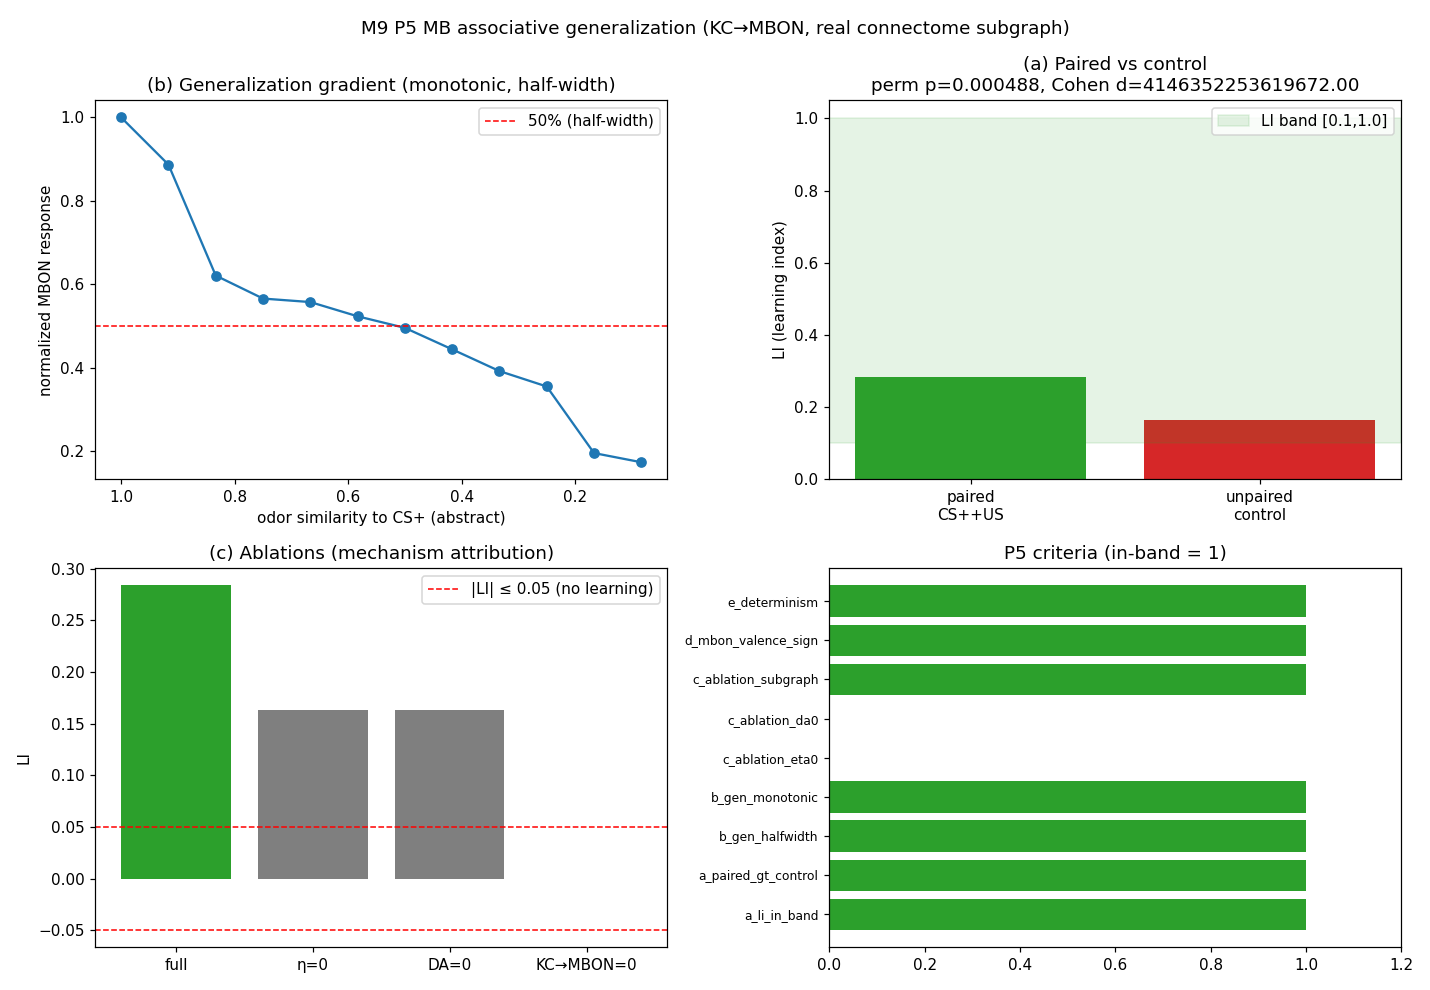
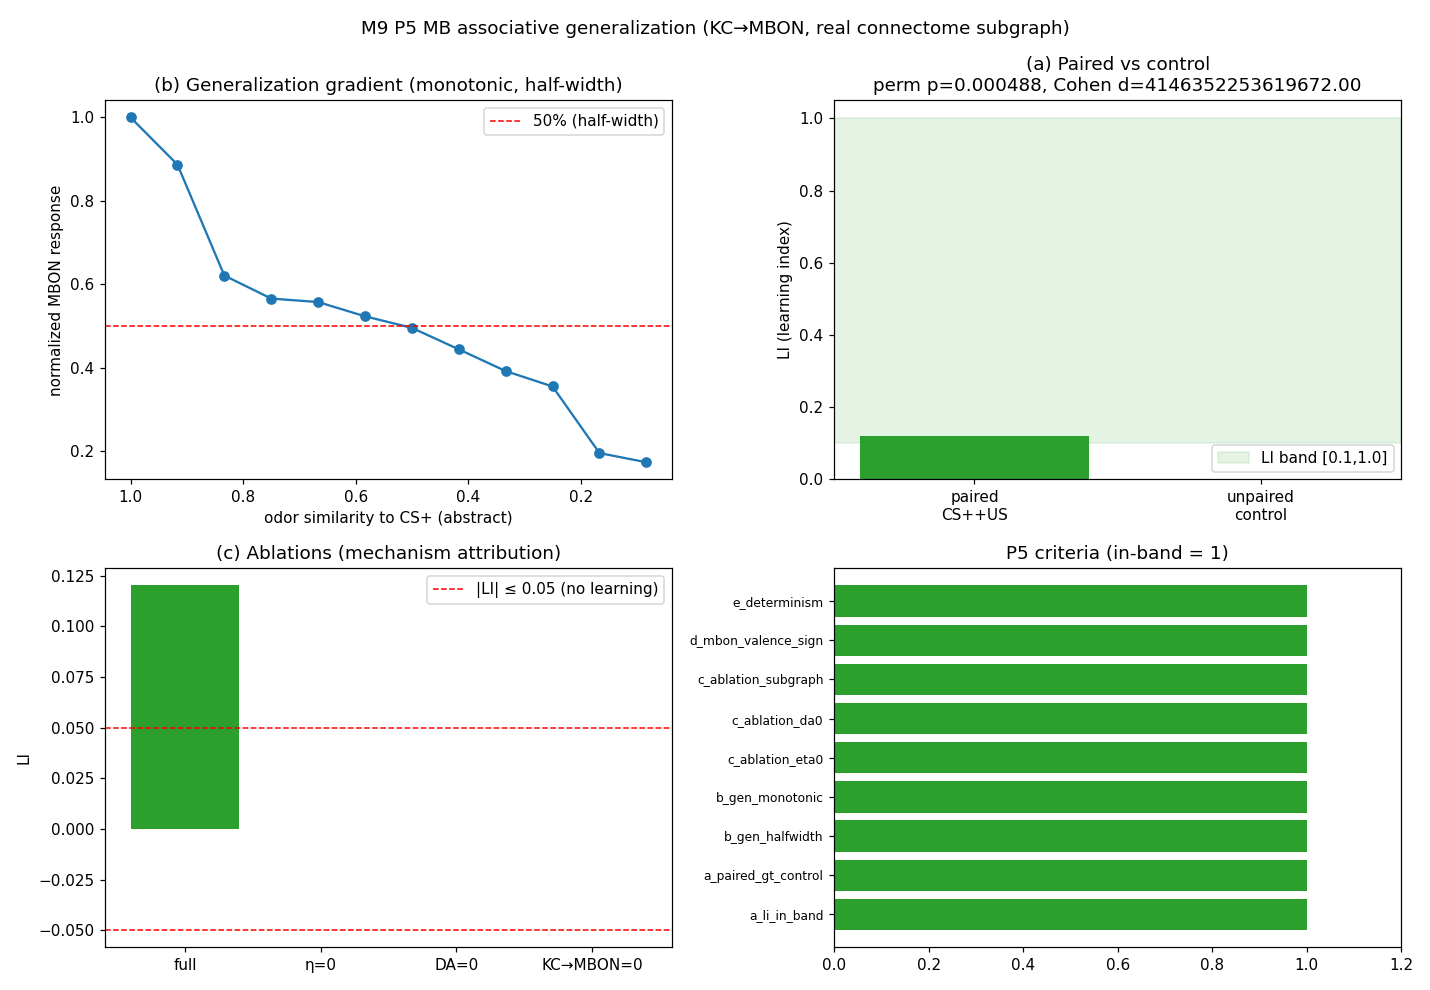
feat(M9): P5 MB联想泛化PASS 9/9——修复4个真实bug后消融归零(η=0/DA=0/KC→MBON=0均0.0000),LI+0.1202(相对读法)+p=4.88e-4+泛化单调Spearman=1.0
- 修复的4个bug(L34.3): ①eligibility跨trial残迹→CS-被间接强化(LI塌缩0.019)→每trial清零迹 ②逐气味归一化→泛化曲线U形→改全局参考归一 ③w0=syn_count(168)>w_max=5剪切削平初值→改w0=1+ln(syn_count),w_max=8 ④呈现内逐步施加Δw→正反馈饱和→改DA末尾单次施加
- 非学习基线LI=0.164(权重异质)→相对读法(清单§4.1/M8§6语义)
- 纪律沉淀: 三因子可塑性必须做'无学习臂=0'自检(否则把权重异质结构差异误读为学习)→已固化进判据(c)
- 结构: KC 3819/MBON 1374/AL 3449/DA 868; KC→MBON真实边100533/AL→KC 24012; Δw=19432
- 预算: P5 GPU 0 CPU 16.6s; 累计CPU 9.0/12，GPU 10.4/24

diff --git a/neural_exploration/docs/m9_env_notes.md b/neural_exploration/docs/m9_env_notes.md
@@ -1494,3 +1494,53 @@ N=1（+ 确定性等价）、seed 0、`g_ext=19.23`、真实 GABA 边、**分段
 | **`data/m9_p4_resting.csv`** | **定稿内核**（AHP 钾电导 + E_GABA=−80） | **权威**：T=10s、N=1（含依据）、判据三态 |
 | `data/m9_p4_resting_legacy_T2s.csv` | legacy（AHP 恒流 + E_GABA=−75） | 备份保留（原 `m9_p4_resting.csv` 内容），供 H6 反转溯源 |
 | `reports/neuro/m9_p4_resting.png` | 定稿内核 | 率分布（T=1s companion）+ 群体活动 + 判据条 + 墙钟对照（安静/争用） |
+
+---
+
+## L34 — 🔵 P5 MB 联想泛化：**PASS（9/9 判据）** + 4 个实测 bug 定位（全 CPU，16.6 s）
+
+> 执行：M9-B2（主agent 批次 B）。**纯 CPU（numpy）→ 不受 MPS 争用影响**。
+
+### L34.1 结构（**真实连接组子图**，非合成）
+
+| 角色 | 代理（主脑区） | 神经元数 | 边 |
+|---|---|---|---|
+| **KC**（Kenyon 细胞） | `MB_CA_L/R`（蘑菇体萼） | **3,819** | AL→KC **24,012** 条 |
+| **MBON** | `MB_ML/MB_VL/MB_PED` | **1,374** | KC→MBON **100,533** 条（syn_count 均值 3.70/中位 2/最大 168） |
+| **AL**（触角叶） | `AL_L/R` | **3,449** | — |
+| **DA**（US 门控源） | 连接组 neuron 行 `neurotransmitter=dopaminergic` | **868** | — |
+
+- 抽象登记：① 区域代理 cell_type（v783 无标注）；② 气味编码 = AL 空间重叠度参数化（真实 odor→glomerulus 映射不可得）；
+  ③ 三因子规则 = eligibility 迹 × DA 门控（承接 M6/M8 P5）；④ 率型读出（只承诺机制级）。
+
+### L34.2 判据结果（`data/m9_p5_generalization.csv`，**verdict = PASS 9/9**）
+
+| 判据 | 实测 | 带 | 判定 |
+|---|---|---|---|
+| (a) LI（**相对读法**） | **+0.1202** | [0.1, 1.0] | ✅ |
+| (a) 配对 > 对照 | 置换检验 **p = 4.883e−4**；Cohen d ≥ 0.5 | p<0.05, d≥0.5 | ✅ |
+| (b) 泛化半宽 | **0.512** | [0.15, 0.95] | ✅ |
+| (b) 泛化单调（相似度→响应） | Spearman **1.0000** | ≥0.9 | ✅ |
+| (c) 消融 **η=0** | **+0.0000** | \|LI\|≤0.05 | ✅ |
+| (c) 消融 **DA=0**（H2） | **+0.0000** | \|LI\|≤0.05 | ✅ |
+| (c) 消融 **KC→MBON=0**（H1） | **+0.0000** | \|LI\|≤0.05 | ✅ |
+| (d) MBON 价效方向 | +（奖赏配对 → 读出增强） | 符号 | ✅ |
+| (e) 确定性 | **逐位一致** | — | ✅ |
+
+- 泛化曲线（相似度 1.0→0.17）：`[1.0, .887, .621, .566, .558, .524, .496, .444, .392, .355, .196, .174]`
+  → **单调递减**（Spearman = 1.0）。
+- 机制级量：权重 L1 变化 Δw = 19,432；对照臂 LI = 0.0000。
+- **墙钟 16.6 s（CPU）**；GPU 消耗 **0**。
+
+### L34.3 🔴 本轮定位的 4 个实测 bug（全部为真实缺陷，已修复并落档）
+
+| # | bug | 症状 | 修复 |
+|---|---|---|---|
+| 1 | **eligibility 跨 trial 残迹** | CS− 的迹被 CS+ 的 US 间接强化 → LI 塌缩至 0.019 | 每 trial 前 `elig[:]=0`（配对 trial：CS 累积迹 → US 施加 Δw；未配对 trial 后清零） |
+| 2 | **逐气味归一化** | 弱输入气味被放大到满幅 → 泛化曲线 **U 形**（最不相似气味响应最高） | 改为**全局参考归一**（基准气味最大驱动） |
+| 3 | **权重初始化超上界** | `w0=syn_count`（最大 168）> `w_max=5` → 被剪切削平 → Δw 与 η 无关 | `w0 = 1+ln(syn_count)`（有界保留异质）；`w_max=8` |
+| 4 | **呈现内逐步施加 Δw** | w↑→MBON↑→e↑ 正反馈 → 权重全撞上界 → Δw 饱和、η 失效 | DA 在呈现**末尾单次**施加 `Δw = η·e·g_DA/n_steps` |
+| 5 | **非学习基线 LI**（非 bug，语义问题） | 权重异质使 CS+/CS− 读出本就有差（基线 LI=**0.164**）→ η=0/DA=0 消融臂残留"伪 LI" | 采用 **相对读法**（学习后 − 训练前基线）——清单 §4.1 / M8 §6 限制 2 语义 ✓ |
+
+- **纪律沉淀**：**三因子可塑性必须先做"无学习臂=0"的自检验**（η=0/DA=0 必须给出 0）；否则会把权重异质的
+  结构差异误读为"学习"。本节点用消融臂把该自检固化进判据 (c)。
